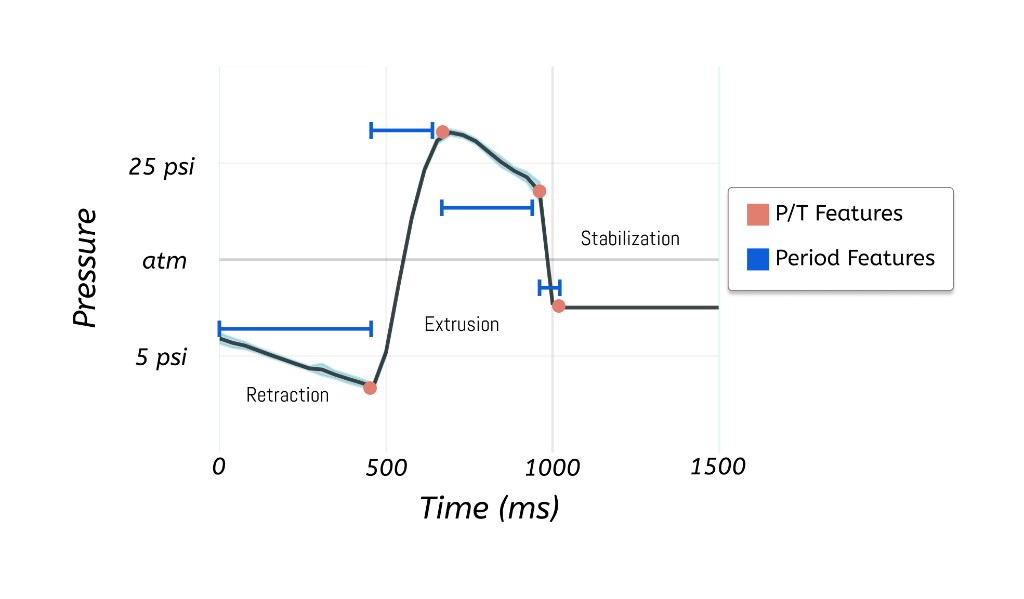
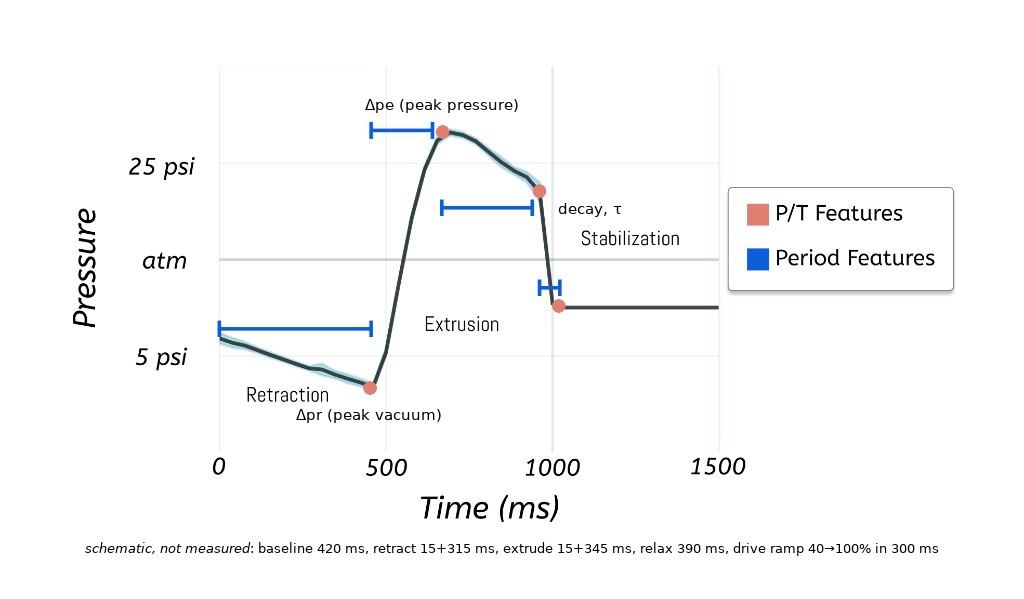
Enhance images README.md for clarity and detail
- Revised the README.md in the images directory to provide a more comprehensive description of the images and their relevance to the project, including detailed explanations of the pressure trace diagram and its components.
- Added a new image, `rep-sensing-and-bench.jpg`, which combines the sensing-method diagram and bench photo for better visual reference.
- Updated the description of the `rep-pressure-trace.jpg` to include specific details about the pressure trace measurements.

These changes aim to improve user understanding of the images and their significance within the RheoBoard project.

diff --git a/docs/img/README.md b/docs/img/README.md
@@ -1,3 +1,3 @@
 # Images
 
-Photos and figures for the public pages. Component photos support the [Parts to buy](https://github.com/The-Hybrid-Atelier/RheoBoard/wiki/Parts-to-buy) wiki page, and the source notes for these files are kept with the wiki images. Part folders are `air-pump-4699/`, `air-valve-4663/`, `attiny1616-seesaw/`, `battery-prt-26059/`, `esp32-thing-plus/`, `l298n/`, `power-adapter-alt-1202/`, `qwiic-button/`, `qwiic-micropressure/`, `silicone-tube-4661/`, and `teaser/`. `panel/` and `portable/` hold the panel and portable figures, and `home-versions.png` is the home figure. `rep-sensing-method.jpg` is the sensing-method diagram, `rep-pressure-trace.jpg` is the pressure trace over the REP window, and `rep-bench.jpg` is the bench photo with the probe, actuator, and sensor. The certification marks in this folder are `oshwa-certification-mark-US002865-wide.svg`, `oshwa-certification-mark-US002865-stacked.svg`, and `oshwa-license-facts.svg`. Vendor photos stay under their owners' terms.
+Photos and figures for the public pages. Component photos support the [Parts to buy](https://github.com/The-Hybrid-Atelier/RheoBoard/wiki/Parts-to-buy) wiki page, and the source notes for these files are kept with the wiki images. Part folders are `air-pump-4699/`, `air-valve-4663/`, `attiny1616-seesaw/`, `battery-prt-26059/`, `esp32-thing-plus/`, `l298n/`, `power-adapter-alt-1202/`, `qwiic-button/`, `qwiic-micropressure/`, `silicone-tube-4661/`, and `teaser/`. `panel/` and `portable/` hold the panel and portable figures, and `home-versions.png` is the home figure. `rep-sensing-method.jpg` is the sensing-method diagram, `rep-pressure-trace.jpg` is the pressure trace over the REP window, with Δpr at the retraction low point, Δpe at the extrusion high point, decay τ on the settling side, and the firmware phase lengths noted as schematic, not measured. `rep-bench.jpg` is the bench photo with the probe, actuator, and sensor. `rep-sensing-and-bench.jpg` is those two pictures cropped and placed side by side, the sensing-method diagram on the left and the bench photo on the right. `rep-phase-schematic.jpg` is the schematic those labels were taken from. It is not on the wiki page. The certification marks in this folder are `oshwa-certification-mark-US002865-wide.svg`, `oshwa-certification-mark-US002865-stacked.svg`, and `oshwa-license-facts.svg`. Vendor photos stay under their owners' terms.
